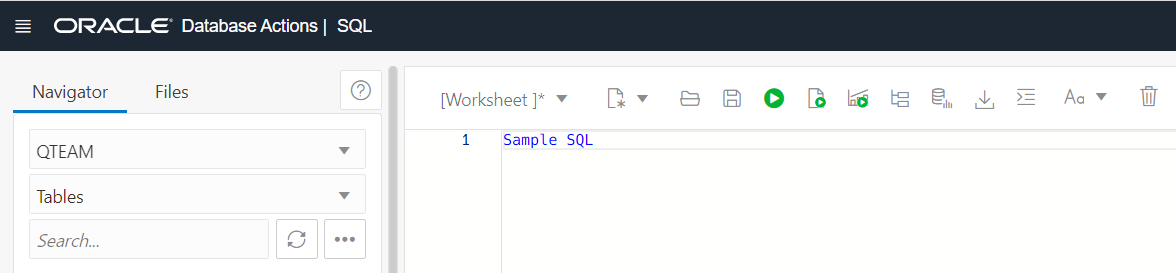
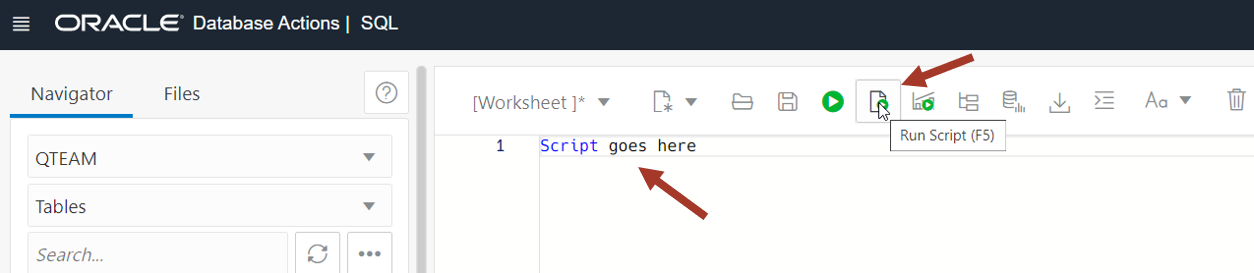
Added demo data load scripts

diff --git a/shared/workshops/adb-datastudio/overview/1-demo-data.md b/shared/workshops/adb-datastudio/overview/1-demo-data.md
@@ -1,0 +1,200 @@
+# Loading demo data for Data Studio overview workshop
+
+
+## Introduction
+
+This lab will guide you through the steps to load demo data. 
+
+### Prerequisites
+
+- Created an Autonomous Data Warehouse instance
+- Created a new QTEAM user with appropriate roles
+
+## Task 1: Access SQL Worksheet
+
+### Access SQL Worksheet
+
+SQL worksheet is linked from the **Database Actions** home page.
+
+In the previous lab, you created the database user **QTEAM**, and you should still be connected as user QTEAM. If you are already logged in as QTEAM, and on the Database Actions home page, you may go directly to Step 3. 
+
+1. There are two ways to reach the Database Actions home page, where you can find Data Studio and other useful tools for your database.
+
+    - Via the Autonomous Database console page
+    - Directly via URI
+
+    ### Access Database Actions via the Console
+
+    On the Autonomous Database Details page, click the **Database Actions** button:
+
+    ![Screenshot of the link to Database Actions from the database console page](images/image_db_console.png)
+
+    ### Access Database Actions directly via URI
+
+    When user QTEAM was created (in a previous step), a card appeared on the Database Users screen, similar to what is shown below. Notice the URI at the bottom of the card.
+
+    Click the **Open in new tab** icon to open a new tab. This URL may be used to access the Database Actions page of Autonomous Database Tools directly, without needing to use the OCI Console. You may want to bookmark this link so that you can easily launch the page at any time.
+
+    ![Link to open Database Actions from users page](images/image_user_login.png)
+
+2. Once you have launched the Database Actions page, sign in as user QTEAM, with the password assigned previously, and click **Sign In**.
+
+![Database Actions Log-in screen with the user name](images/image_user_uri.png)
+
+3. This will take you to the Autonomous Database **Database Actions** page (shown below), with links to the SQL worksheet on the top left. 
+
+  ![The Database Actions home page](images/db_actions.png)
+
+
+## Task 2: Execute script in SQL Worksheet to load demo data
+
+1. Below is the script you need to execute to load demo data. Simply copy and paste this code into your SQL Worksheet.
+
+*For copy/pasting, be sure to click the convenient __Copy__ button in the upper right corner of the following code snippet, and all subsequent code snippets*: 
+
+```
+DROP TABLE CUSTOMER_CA
+;
+ 
+CREATE TABLE CUSTOMER_CA 
+    ( 
+     CUST_ID        NUMBER , 
+     AGE            NUMBER , 
+     EDUCATION      VARCHAR2 (40) , 
+     GENDER         VARCHAR2 (20) , 
+     INCOME_LEVEL   VARCHAR2 (20) , 
+     MARITAL_STATUS VARCHAR2 (8) , 
+     PET            VARCHAR2 (40) 
+    ) 
+;
+
+DROP TABLE MOVIESALES_CA
+;
+ 
+CREATE TABLE MOVIESALES_CA 
+    ( 
+     DAY_ID           DATE , 
+     GENRE_ID         NUMBER , 
+     MOVIE_ID         NUMBER , 
+     CUST_ID          NUMBER , 
+     APP              VARCHAR2 (100) , 
+     DEVICE           VARCHAR2 (100) , 
+     OS               VARCHAR2 (100) , 
+     PAYMENT_METHOD   VARCHAR2 (100) , 
+     LIST_PRICE       NUMBER , 
+     DISCOUNT_TYPE    VARCHAR2 (100) , 
+     DISCOUNT_PERCENT NUMBER , 
+     TOTAL_SALES      NUMBER 
+    ) 
+;
+
+DROP TABLE GENRE
+;
+
+CREATE TABLE GENRE 
+    ( 
+     GENRE_ID NUMBER , 
+     GENRE    VARCHAR2 (30) 
+    ) 
+;
+
+
+CREATE UNIQUE INDEX PK_GENRE_ID ON GENRE 
+    ( 
+     GENRE_ID ASC 
+    ) 
+;
+
+ALTER TABLE GENRE 
+    ADD CONSTRAINT PK_GENRE_ID PRIMARY KEY ( GENRE_ID ) 
+    USING INDEX PK_GENRE_ID 
+;
+
+DROP TABLE MOVIE
+;
+
+CREATE TABLE MOVIE 
+    ( 
+     MOVIE_ID     NUMBER , 
+     TITLE        VARCHAR2 (200) , 
+     BUDGET       NUMBER , 
+     GROSS        NUMBER , 
+     LIST_PRICE   NUMBER , 
+     GENRES       VARCHAR2 (4000) , 
+     SKU          VARCHAR2 (30) , 
+     YEAR         NUMBER , 
+     OPENING_DATE DATE , 
+     VIEWS        NUMBER , 
+     CAST         VARCHAR2 (4000) , 
+     CREW         VARCHAR2 (4000) , 
+     STUDIO       VARCHAR2 (4000) , 
+     MAIN_SUBJECT VARCHAR2 (4000) , 
+     AWARDS       VARCHAR2 (4000) , 
+     NOMINATIONS  VARCHAR2 (4000) , 
+     RUNTIME      NUMBER , 
+     SUMMARY      VARCHAR2 (16000) 
+    ) 
+;
+
+DROP TABLE TIME
+;
+
+CREATE TABLE TIME 
+    ( 
+     DAY_ID           DATE , 
+     DAY_NAME         VARCHAR2 (36) , 
+     DAY_OF_WEEK      NUMBER , 
+     DAY_OF_MONTH     NUMBER , 
+     DAY_OF_YEAR      NUMBER , 
+     WEEK_OF_MONTH    NUMBER , 
+     WEEK_OF_YEAR     NUMBER , 
+     MONTH_OF_YEAR    NUMBER , 
+     MONTH_NAME       VARCHAR2 (36) , 
+     MONTH_SHORT_NAME VARCHAR2 (12) , 
+     QUARTER_NAME     VARCHAR2 (7) , 
+     QUARTER_OF_YEAR  NUMBER , 
+     YEAR_NAME        NUMBER 
+    ) 
+;
+
+set define on
+define file_uri_base = 'https://objectstorage.us-phoenix-1.oraclecloud.com/p/lJD1-iabPDW-vrGBhPFf3JJJtYi67BhcBD-2iykgWjy6oir05QuBSIe7Ffva9i4a/n/adwc4pm/b/bucket-data-studio-overview-demo-data/o'
+
+begin
+ dbms_cloud.copy_data(
+    table_name =>'CUSTOMER_CA',
+    file_uri_list =>'&file_uri_base/CUSTOMER_CA.csv',
+    format =>'{"type" : "csv", "skipheaders" : 1}'
+ );
+ dbms_cloud.copy_data(
+    table_name =>'MOVIESALES_CA',
+    file_uri_list =>'&file_uri_base/MOVIESALES_CA.csv',
+    format =>'{"type" : "csv", "skipheaders" : 1}'
+ );
+ dbms_cloud.copy_data(
+    table_name =>'GENRE',
+    file_uri_list =>'&file_uri_base/GENRE.csv',
+    format =>'{"type" : "csv", "skipheaders" : 1}'
+ );
+ dbms_cloud.copy_data(
+    table_name =>'MOVIE',
+    file_uri_list =>'&file_uri_base/MOVIE.csv',
+    format =>'{"type" : "csv", "skipheaders" : 1}'
+ );
+ dbms_cloud.copy_data(
+    table_name =>'TIME',
+    file_uri_list =>'&file_uri_base/TIME.csv',
+    format =>'{"type" : "csv", "skipheaders" : 1}'
+ );
+end;
+/
+
+```
+2. Paste the sql statements in worksheet. Click on **Run Script** icon.
+
+**Note**: Expect to receive "ORA-00942 table or view does not exist" errors during the DROP TABLE command for the first execution of the script, but you should not see any other errors.
+
+![Alt text](images/image_sql_worksheet.png)
+
+Now you are ready to go through rest of the labs in this workshop.
+

diff --git a/shared/workshops/adb-datastudio/overview/4-transform-data.md b/shared/workshops/adb-datastudio/overview/4-transform-data.md
@@ -17,17 +17,37 @@ To complete this lab, you need to have completed the previous labs, so that you 
 ### Demo data for this lab
 **NOTE**: Skip this section if you have demo data loaded and completed previous labs.
 
-If you have not completed previous labs then make sure you have loaded the demo data
+If you have not completed previous labs then make sure **you have loaded the demo data**
 in the first lab and then create remaining objets by running the following script in SQL Worksheet.
 
 *For copy/pasting, be sure to click the convenient __Copy__ button in the upper right corner of the following code snippet*: 
 
 ```
-My SQL line 1;
-SQL line 2;
+DROP TABLE AGE_GROUP
+;
+
+CREATE TABLE AGE_GROUP 
+    ( 
+     MIN_AGE   NUMBER , 
+     MAX_AGE   NUMBER , 
+     AGE_GROUP VARCHAR2 (4000) 
+    ) 
+;
+
+set define on
+define file_uri_base = 'https://objectstorage.us-phoenix-1.oraclecloud.com/p/lJD1-iabPDW-vrGBhPFf3JJJtYi67BhcBD-2iykgWjy6oir05QuBSIe7Ffva9i4a/n/adwc4pm/b/bucket-data-studio-overview-demo-data/o'
+
+begin
+ dbms_cloud.copy_data(
+    table_name =>'AGE_GROUP',
+    file_uri_list =>'&file_uri_base/AGE_GROUP.csv',
+    format =>'{"type" : "csv", "skipheaders" : 1}'
+ );
+end;
+/
 ```
 
-Paste the sql statements in SQL worksheet and run the scripts
+Paste the sql statements in SQL worksheet and run the scripts.
 
 Now you are ready to go through rest of the labs in this workshop.
 

diff --git a/shared/workshops/adb-datastudio/overview/6-insight-in-data.md b/shared/workshops/adb-datastudio/overview/6-insight-in-data.md
@@ -354,7 +354,7 @@ CREATE OR REPLACE FORCE EDITIONABLE ATTRIBUTE DIMENSION
   
 ```
 
-Paste the sql statements in SQL worksheet and run the scripts
+Paste the sql statements in SQL worksheet and run the scripts.
 
 Now you are ready to go through rest of the labs in this workshop.
 
